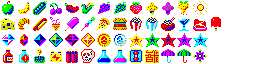
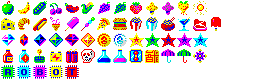
Add ROBOT circuit boards.

diff --git a/src/state/GameState.ts b/src/state/GameState.ts
@@ -1,6 +1,6 @@
 import { Position, VariableProperty, dist } from "@overreact/engine";
 import { ITEMS } from "../data";
-import { ItemType, LevelData, LevelPortalData, PointsValue } from "../types";
+import { ItemHandler, ItemType, LevelData, LevelPortalData, PointsValue } from "../types";
 import { ItemState } from "./ItemState";
 import { PlayerState } from "./PlayerState";
 import { PointsState } from "./PointsState";
@@ -8,8 +8,12 @@ import { ZapState } from "./ZapState";
 import { EnemyState } from "./EnemyState";
 import { EnemyZapState } from "./EnemyZapState";
 import { PositionedObjectState } from "./PositionedObjectState";
+import { itemHandlers } from "./itemHandlers";
+
 
 export class GameState {
+
+  itemHandlers: Partial<Record<ItemType, ItemHandler>> = {};
 
   initialized = false;
 
@@ -42,6 +46,7 @@ export class GameState {
 
   constructor(levels: LevelData[]) {
     this.levels = levels;
+    this.itemHandlers = itemHandlers;
   }
 
   initLevel() {
@@ -83,10 +88,19 @@ export class GameState {
     this.items = [...this.items, item];
   }
 
-  collectItem(item: ItemState) {
-    this.items = this.items.filter(({ id }) => id !== item.id);
+  awardItemPoints(item: ItemState) {
     this.players[0].addPoints(ITEMS[item.type].value);
     this.showItemPoints(item);
+  }
+
+  collectItem(item: ItemState) {
+    this.items = this.items.filter(({ id }) => id !== item.id);
+
+    if (item.type in this.itemHandlers) {
+      this.itemHandlers[item.type]?.(this, item);
+    } else {
+      this.awardItemPoints(item);
+    }
   }
 
   showItemPoints(item: ItemState) {

diff --git a/src/state/itemHandlers.ts b/src/state/itemHandlers.ts
@@ -1,0 +1,40 @@
+import { ItemHandler, ItemType } from "../types";
+
+export const itemHandlers: Partial<Record<ItemType, ItemHandler>> = {
+
+  // Activate the 'R' in robot.
+  'circuit_1r': (game, item) => {
+    game.circuits.current |= 1;
+    game.awardItemPoints(item);
+  },
+
+  // Activate the first 'O' in robot.
+  'circuit_2o': (game, item) => {
+    game.circuits.current |= 2;
+    game.awardItemPoints(item);
+  },
+
+  // Activate the 'B' in robot.
+  'circuit_3b': (game, item) => {
+    game.circuits.current |= 4;
+    game.awardItemPoints(item);
+  },
+
+  // Activate the second 'O' in robot.
+  'circuit_4o': (game, item) => {
+    game.circuits.current |= 8;
+    game.awardItemPoints(item);
+  },
+
+  // Activate the 'T' in robot.
+  'circuit_5t': (game, item) => {
+    game.circuits.current |= 16;
+    game.awardItemPoints(item);
+  },
+
+  // Give player fireball power up.
+  'hot_sauce': (game, item) => {
+    game.players[0].powerup('fireballs');
+    game.awardItemPoints(item);
+  },
+};

diff --git a/src/data/items.ts b/src/data/items.ts
@@ -165,4 +165,24 @@ export const ITEMS: Record<ItemType, ItemConfig> = {
     offset: [0, 48],
     value: 1000,
   },
+  circuit_1r: {
+    offset: [0, 64],
+    value: 1000,
+  },
+  circuit_2o: {
+    offset: [16, 64],
+    value: 1000,
+  },
+  circuit_3b: {
+    offset: [32, 64],
+    value: 1000,
+  },
+  circuit_4o: {
+    offset: [48, 64],
+    value: 1000,
+  },
+  circuit_5t: {
+    offset: [64, 64],
+    value: 1000,
+  },
 };

diff --git a/src/types.ts b/src/types.ts
@@ -48,7 +48,15 @@ export type ItemType =
   | 'star_red'
   | 'star_magenta'
   | 'star_cyan'
-  | 'hot_sauce';
+  | 'hot_sauce'
+  | 'circuit_1r'
+  | 'circuit_2o'
+  | 'circuit_3b'
+  | 'circuit_4o'
+  | 'circuit_5t'
+  ;
+
+export type ItemHandler = (game: GameState, item: ItemState) => void;
 
 export type ItemConfig = {
   offset: Position;

diff --git a/src/components/Item/assets/index.ts b/src/components/Item/assets/index.ts
@@ -5,7 +5,7 @@ import mysteryUrl from "./mystery.png";
 
 export const ITEM_IMAGE: BitmapAsset = {
   url: itemsUrl,
-  size: [256, 64],
+  size: [256, 80],
 };
 
 export const MYSTERY_SPRITE: BitmapSpriteAsset = {
